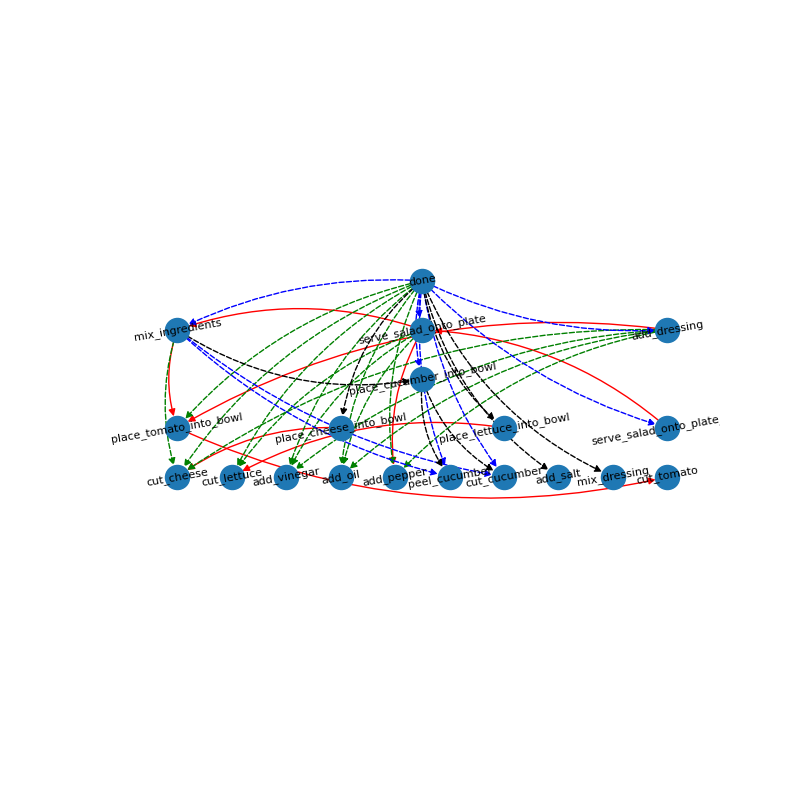
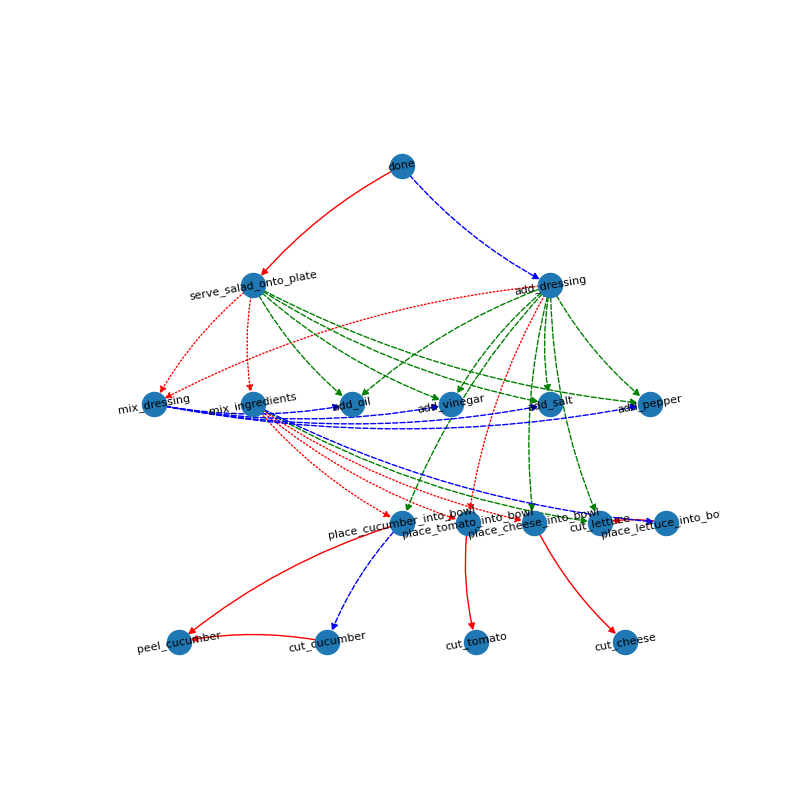
Monday update with worst video set

diff --git a/combined_graph_1.py b/combined_graph_1.py
@@ -251,7 +251,7 @@ def draw_graph(graph):
 
     try:
         # pos = nx.shell_layout(DG)
-        pos = hierarchy_pos_3(DG, 'done')
+        pos = hierarchy_pos_2(DG, 'done')
         nx.draw_networkx_nodes(DG, pos=pos)
     except Exception as e:
         print(e)
@@ -303,16 +303,22 @@ EDGE_STYLES = [
 # plot_list = ['08-2', '18-1', '03-1']
 # plot_list = ['08-2', '20-1', '06-1']
 
-# plot_list = ['10-1', '11-2', '13-1', '15-1', '23-2', '08-2', '05-2', '11-1', '24-2', '08-1', '18-1', '12-2', '07-2', '07-1', '13-2', '06-2', '16-2', '23-1', '12-1', '11-1', '26-2', '04-1', '26-1', '14-2', '03-1', '16-1', '24-1', '21-1', '27-1', '22-1']
+# plot_list = ['23-1', '18-1', '10-1', '11-2', '13-1', '15-1', '23-2', '08-2', '05-2', '11-1', '24-2', '08-1', '12-2', '07-2', '07-1', '13-2', '06-2', '16-2', '12-1', '11-1', '26-2', '04-1', '26-1', '14-2', '03-1', '16-1', '24-1', '21-1', '27-1', '22-1']
 # plot_list = ['10-1', '21-1', '26-2', '24-2']
 
 # plot_list = ['10-1', '11-2', '13-1', '15-1', '23-2', '08-2', '05-2', '11-1', '24-2', '08-1', '12-2', '07-2', '07-1', '13-2', '06-2', '16-2', '12-1', '11-1', '26-2', '04-1', '26-1', '14-2', '03-1', '16-1', '24-1', '21-1', '27-1', '22-1']
-# plot_list = ['12-2', '07-2', '07-1', '13-2', '06-2', '16-2', '12-1', '11-1', '26-2', '04-1', '26-1', '14-2', '03-1', '16-1', '24-1', '21-1', '27-1', '22-1']
+# plot_list = ['04-2', '16-1', '12-2', '07-2', '07-1', '13-2', '06-2', '16-2', '12-1', '11-1', '26-2', '04-1', '26-1', '14-2', '03-1', '24-1', '21-1', '27-1', '22-1']
 # plot_list = ['12-2', '21-1']
 # plot_list = ['12-2', '18-1']
 
-plot_list = ["{:02}-{}".format(i, j) for i in range(1,28) for j in [1, 2]]
-random.shuffle(plot_list)
+# WORST
+# plot_list = ['18-1', '26-2', '26-1']
+
+# WHY BLACK IS ADDED
+plot_list = ['26-2', '26-1', '16-1', '12-2', '07-2', '07-1', '13-2', '06-2', '16-2', '12-1', '11-1', '26-2', '04-1', '26-1', '14-2', '03-1', '24-1', '21-1', '27-1', '22-1']
+
+# plot_list = ["{:02}-{}".format(i, j) for i in range(1,28) for j in [1, 2]]
+# random.shuffle(plot_list)
 # plot_list = plot_list[:30]
 
 # individual_graph.main(plot_list)

diff --git a/find_video.py b/find_video.py
@@ -1,0 +1,45 @@
+
+high_level_nodes = ["cut_and_mix_ingredients", "prepare_dressing", "serve_salad"]
+
+def get_action_list(annotation_file):
+    f = open(annotation_file, 'r')
+    lines = f.readlines()
+    f.close()
+
+    all_actions = []
+    for line in lines:
+        tokens = line.split(' ')
+        start_time = tokens[0]
+        action_name = tokens[2][:-1]
+        if action_name not in high_level_nodes:
+            all_actions.append([start_time, action_name])
+    all_actions = sorted(all_actions, key=lambda x : int(x[0]))
+
+    refined_actions = []
+    for _, action_name in all_actions:
+        action_split = action_name.split('_')
+        if action_split[-1] in ['core', 'prep', 'post']:
+            action_name = "_".join(action_split[:-1])
+        if len(refined_actions) == 0 or refined_actions[-1] != action_name:
+            refined_actions.append(action_name) 
+    refined_actions.append("done")
+
+    return refined_actions
+
+
+# plot_list = ["{:02}-{}".format(i, j) for i in range(1,28) for j in [1, 2]]
+# plot_list = ['04-2', '16-1', '12-2', '07-2', '07-1', '13-2', '06-2', '16-2', '12-1', '11-1', '26-2', '04-1', '26-1', '14-2', '03-1', '24-1', '21-1', '27-1', '22-1']
+plot_list = ['10-1', '11-2', '13-1', '15-1', '23-2', '08-2', '05-2', '11-1', '24-2', '08-1', '18-1', '12-2', '07-2', '07-1', '13-2', '06-2', '16-2', '23-1', '12-1', '11-1', '26-2', '04-1', '26-1', '14-2', '03-1', '16-1', '24-1', '21-1', '27-1', '22-1']
+
+# target_actions = ['add_oil', 'add_vinegar', 'add_pepper', 'add_salt']
+target_actions = ['mix_dressing']
+
+found_list = []
+for idx, plot_file in enumerate(plot_list):
+    all_actions = get_action_list("data/50salads/labels/{}-activityAnnotation.txt".format(plot_file))
+    for action in target_actions:
+        if action not in all_actions:
+            found_list.append(plot_file)
+            break
+
+print(found_list)

diff --git a/combined_graph.py b/combined_graph.py
@@ -245,15 +245,22 @@ EDGE_STYLES = [
 # plot_list = ['10-1', '21-1', '26-2', '24-2']
 
 # plot_list = ['10-1', '11-2', '13-1', '15-1', '23-2', '08-2', '05-2', '11-1', '24-2', '08-1', '12-2', '07-2', '07-1', '13-2', '06-2', '16-2', '12-1', '11-1', '26-2', '04-1', '26-1', '14-2', '03-1', '16-1', '24-1', '21-1', '27-1', '22-1']
-plot_list = ['12-2', '07-2', '07-1', '13-2', '06-2', '16-2', '12-1', '11-1', '26-2', '04-1', '26-1', '14-2', '03-1', '16-1', '24-1', '21-1', '27-1', '22-1']
+# plot_list = ['04-2', '12-2', '07-2', '07-1', '13-2', '06-2', '16-2', '12-1', '11-1', '26-2', '04-1', '26-1', '14-2', '03-1', '16-1', '24-1', '21-1', '27-1', '22-1']
 # plot_list = ['12-2', '21-1']
 # plot_list = ['12-2', '18-1']
+
+# WORST
+# plot_list = ['18-1', '26-2', '26-1']
+
+# WHY BLACK IS ADDED
+plot_list = ['26-2', '26-1', '16-1', '12-2', '07-2', '07-1', '13-2', '06-2', '16-2', '12-1', '11-1', '26-2', '04-1', '26-1', '14-2', '03-1', '24-1', '21-1', '27-1', '22-1']
+
 
 # plot_list = ["{:02}-{}".format(i, j) for i in range(1,28) for j in [1, 2]]
 # random.shuffle(plot_list)
 # plot_list = plot_list[:30]
 
-individual_graph.main(plot_list)
+# individual_graph.main(plot_list)
 
 print(plot_list)
 
